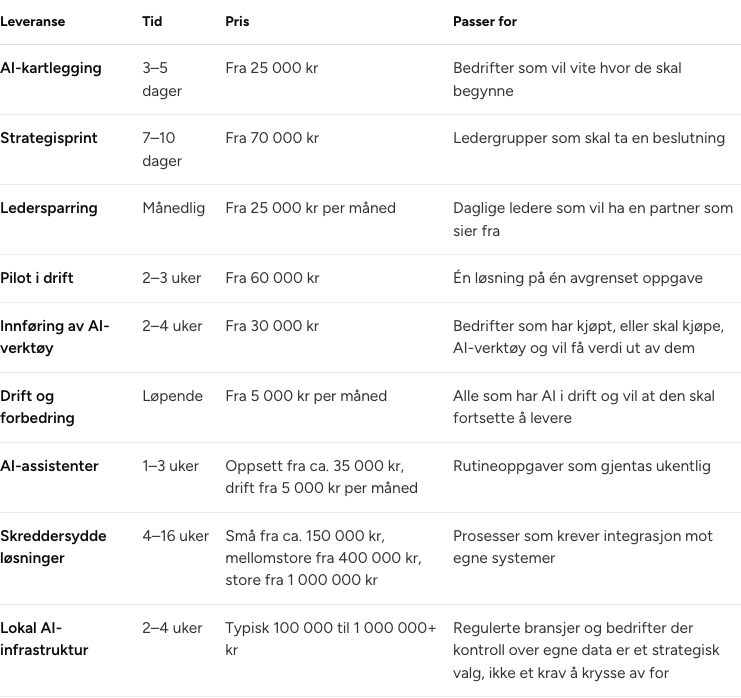
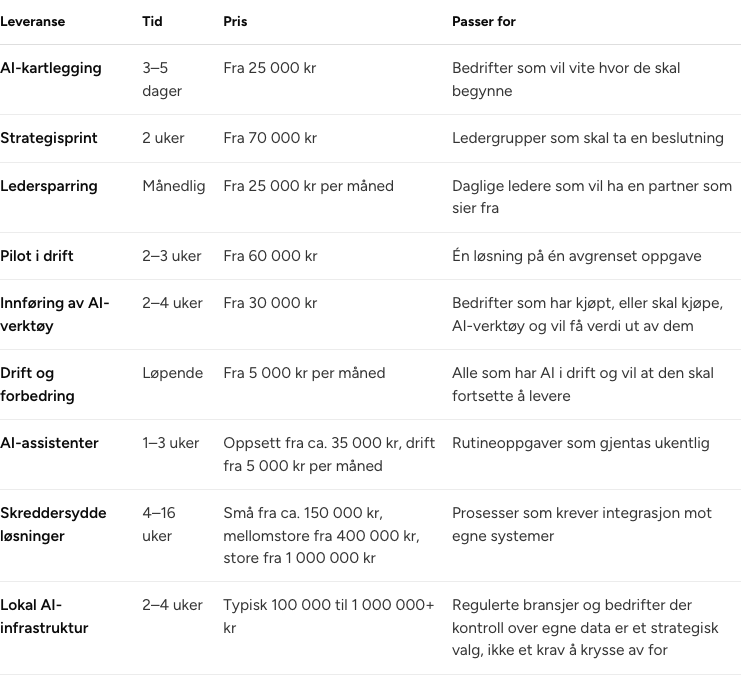
fix(priser): strategisprinten er fortsatt 2 uker
Thomas 6. november 2026: strategisprinten er 2 uker med 4 dager per uke,
så leveransen står som før («2 uker»). Prisen er fortsatt 70 000 kr.
Skjermbildene er tatt på nytt.

diff --git a/innsikt/ai-for-bedrifter/index.html b/innsikt/ai-for-bedrifter/index.html
@@ -76,7 +76,7 @@
   "datePublished": "2026-10-27",
   "dateModified": "2026-11-06",
   "articleSection": "Ta i bruk AI",
-  "wordCount": 665,
+  "wordCount": 663,
   "image": "https://nrth.no/innsikt/ai-for-bedrifter/og.png",
   "author": {
     "@type": "Person",
@@ -165,7 +165,7 @@
           <p>Start med å finne de tre til fem stedene i bedriften der AI faktisk endrer regnestykket. Det er sjelden der folk tror. Det er ikke kundeservice-chatboten, det er de ukentlige oppgavene som tar timer og krever lesing, sammenligning og skriving: fakturakontroll, tilbudsutkast, svar på standardhenvendelser, ukesrapporter, leverandøroppfølging.</p>
           <p>En god test: kan oppgaven beskrives i en setning, gjentas den minst ukentlig, og finnes det dokumenter den bygger på? Da er den en kandidat. Oppgaver som krever skjønn i hvert tilfelle, eller som ingen kan beskrive, er det ikke.</p>
           <h2 id="hva-koster-det">Hva koster det?</h2>
-          <p>Hos oss koster AI-kartlegging fra 25&nbsp;000&nbsp;kroner og tar tre til fem dager. En strategisprint på sju til ti dager koster fra 70&nbsp;000&nbsp;kroner. En pilot i drift tar to til tre uker og koster fra 60&nbsp;000&nbsp;kroner. AI-assistenter har oppsett fra ca. 35&nbsp;000&nbsp;kroner og drift fra 5&nbsp;000&nbsp;kroner per måned, og lokal AI-infrastruktur koster typisk 100&nbsp;000 til 1&nbsp;000&nbsp;000+ kroner. Alle priser er eksklusive mva. og står på sidene om <a href="/ai-vurdering">AI-vurdering</a>, <a href="/implementering">implementering</a>, <a href="/ai-tjenester">AI-tjenester</a> og <a href="/foredrag-og-kurs">foredrag og kurs</a>. I tillegg kommer forbruk på modeller, som for de fleste SMB-er ligger på noen hundre til noen tusen kroner i måneden per løsning.</p>
+          <p>Hos oss koster AI-kartlegging fra 25&nbsp;000&nbsp;kroner og tar tre til fem dager. En strategisprint på to uker koster fra 70&nbsp;000&nbsp;kroner. En pilot i drift tar to til tre uker og koster fra 60&nbsp;000&nbsp;kroner. AI-assistenter har oppsett fra ca. 35&nbsp;000&nbsp;kroner og drift fra 5&nbsp;000&nbsp;kroner per måned, og lokal AI-infrastruktur koster typisk 100&nbsp;000 til 1&nbsp;000&nbsp;000+ kroner. Alle priser er eksklusive mva. og står på sidene om <a href="/ai-vurdering">AI-vurdering</a>, <a href="/implementering">implementering</a>, <a href="/ai-tjenester">AI-tjenester</a> og <a href="/foredrag-og-kurs">foredrag og kurs</a>. I tillegg kommer forbruk på modeller, som for de fleste SMB-er ligger på noen hundre til noen tusen kroner i måneden per løsning.</p>
           <p>En dyktig medarbeider i Norge koster 1–1,5&nbsp;millioner kroner i året. Når AI støtter de ansatte og tar rutinearbeidet, kan teamet få kapasitet tilsvarende én til flere ekstra ansatte, og kvaliteten går opp. AI koster typisk 20–40&nbsp;% av det én ansatt koster.</p>
           <h2 id="hva-bor-du-la-vaere">Hva bør du la være?</h2>
           <ul>

diff --git a/en/ai-assessment/index.html b/en/ai-assessment/index.html
@@ -9,7 +9,7 @@
   setTimeout(function () { if (!window.nrthReveal) document.documentElement.classList.remove("js"); }, 3000);
 </script>
 <title>AI assessment and AI strategy for businesses · Nrth AI</title>
-<meta name="description" content="Find out where AI does the most for your business: a 3–5 day AI assessment, a 7–10 day strategy sprint and leadership advisory. From NOK 25,000." />
+<meta name="description" content="Find out where AI does the most for your business: a 3–5 day AI assessment, a 2-week strategy sprint and leadership advisory. From NOK 25,000." />
 <meta name="robots" content="index, follow, max-snippet:-1, max-image-preview:large, max-video-preview:-1" />
 <link rel="canonical" href="https://nrth.no/en/ai-assessment" />
 <link rel="alternate" hreflang="nb" href="https://nrth.no/ai-vurdering" />
@@ -18,7 +18,7 @@
 <meta property="og:type" content="website" />
 <meta property="og:site_name" content="Nrth AI" />
 <meta property="og:title" content="AI assessment and AI strategy for businesses · Nrth AI" />
-<meta property="og:description" content="Find out where AI does the most for your business: a 3–5 day AI assessment, a 7–10 day strategy sprint and leadership advisory. From NOK 25,000." />
+<meta property="og:description" content="Find out where AI does the most for your business: a 3–5 day AI assessment, a 2-week strategy sprint and leadership advisory. From NOK 25,000." />
 <meta property="og:url" content="https://nrth.no/en/ai-assessment" />
 <meta property="og:locale" content="en_GB" />
 <meta property="og:locale:alternate" content="nb_NO" />
@@ -199,7 +199,7 @@
             </ul>
           </div>
           <dl class="service-meta-group">
-            <div class="service-meta"><dt class="label">Delivery</dt><dd class="value">7–10 days</dd></div>
+            <div class="service-meta"><dt class="label">Delivery</dt><dd class="value">2 weeks</dd></div>
             <div class="service-meta"><dt class="label">Investment</dt><dd class="value">From NOK&nbsp;70,000</dd></div>
             <div class="service-meta"><dt class="label">Best fit</dt><dd class="value">Leadership teams about to make a decision on AI who want solid ground to stand on.</dd></div>
           </dl>

diff --git a/ai-vurdering/index.html b/ai-vurdering/index.html
@@ -9,7 +9,7 @@
   setTimeout(function () { if (!window.nrthReveal) document.documentElement.classList.remove("js"); }, 3000);
 </script>
 <title>AI-vurdering og AI-strategi for bedrifter · Nrth AI</title>
-<meta name="description" content="Finn ut hvor AI gir bedriften mest: AI-kartlegging på 3–5 dager, strategisprint på 7–10 dager og ledersparring. Fra 25 000 kr." />
+<meta name="description" content="Finn ut hvor AI gir bedriften mest: AI-kartlegging på 3–5 dager, strategisprint på 2 uker og ledersparring. Fra 25 000 kr." />
 <meta name="robots" content="index, follow, max-snippet:-1, max-image-preview:large, max-video-preview:-1" />
 <link rel="canonical" href="https://nrth.no/ai-vurdering" />
 <link rel="alternate" hreflang="nb" href="https://nrth.no/ai-vurdering" />
@@ -18,7 +18,7 @@
 <meta property="og:type" content="website" />
 <meta property="og:site_name" content="Nrth AI" />
 <meta property="og:title" content="AI-vurdering og AI-strategi for bedrifter · Nrth AI" />
-<meta property="og:description" content="Finn ut hvor AI gir bedriften mest: AI-kartlegging på 3–5 dager, strategisprint på 7–10 dager og ledersparring. Fra 25 000 kr." />
+<meta property="og:description" content="Finn ut hvor AI gir bedriften mest: AI-kartlegging på 3–5 dager, strategisprint på 2 uker og ledersparring. Fra 25 000 kr." />
 <meta property="og:url" content="https://nrth.no/ai-vurdering" />
 <meta property="og:locale" content="nb_NO" />
 <meta property="og:locale:alternate" content="en_GB" />
@@ -199,7 +199,7 @@
             </ul>
           </div>
           <dl class="service-meta-group">
-            <div class="service-meta"><dt class="label">Leveranse</dt><dd class="value">7–10 dager</dd></div>
+            <div class="service-meta"><dt class="label">Leveranse</dt><dd class="value">2 uker</dd></div>
             <div class="service-meta"><dt class="label">Investering</dt><dd class="value">Fra 70&nbsp;000&nbsp;kr</dd></div>
             <div class="service-meta"><dt class="label">Passer for</dt><dd class="value">Ledergrupper som skal ta en beslutning om AI og vil ha et solid grunnlag.</dd></div>
           </dl>

diff --git a/innsikt/hva-koster-et-ai-prosjekt/index.html b/innsikt/hva-koster-et-ai-prosjekt/index.html
@@ -164,7 +164,7 @@
               <thead><tr><th scope="col">Leveranse</th><th scope="col">Tid</th><th scope="col">Pris</th><th scope="col">Passer for</th></tr></thead>
               <tbody>
                 <tr><th scope="row">AI-kartlegging</th><td>3–5 dager</td><td>Fra 25&nbsp;000&nbsp;kr</td><td>Bedrifter som vil vite hvor de skal begynne</td></tr>
-                <tr><th scope="row">Strategisprint</th><td>7–10 dager</td><td>Fra 70&nbsp;000&nbsp;kr</td><td>Ledergrupper som skal ta en beslutning</td></tr>
+                <tr><th scope="row">Strategisprint</th><td>2 uker</td><td>Fra 70&nbsp;000&nbsp;kr</td><td>Ledergrupper som skal ta en beslutning</td></tr>
                 <tr><th scope="row">Ledersparring</th><td>Månedlig</td><td>Fra 25&nbsp;000&nbsp;kr per måned</td><td>Daglige ledere som vil ha en partner som sier fra</td></tr>
                 <tr><th scope="row">Pilot i drift</th><td>2–3 uker</td><td>Fra 60&nbsp;000&nbsp;kr</td><td>Én løsning på én avgrenset oppgave</td></tr>
                 <tr><th scope="row">Innføring av AI-verktøy</th><td>2–4 uker</td><td>Fra 30&nbsp;000&nbsp;kr</td><td>Bedrifter som har kjøpt, eller skal kjøpe, AI-verktøy og vil få verdi ut av dem</td></tr>

diff --git a/index.html b/index.html
@@ -193,7 +193,7 @@
           <p>Før dere bruker penger på verktøy, finner vi ut hvor AI faktisk øker salget eller sparer tid hos dere, og hva som bør gjøres først.</p>
           <ul class="door-list">
             <li><span class="arrow" aria-hidden="true">→</span> <span>AI-kartlegging</span> <span class="dur">3–5 dager</span></li>
-            <li><span class="arrow" aria-hidden="true">→</span> <span>Strategisprint</span> <span class="dur">7–10 dager</span></li>
+            <li><span class="arrow" aria-hidden="true">→</span> <span>Strategisprint</span> <span class="dur">2 uker</span></li>
             <li><span class="arrow" aria-hidden="true">→</span> <span>Ledersparring</span> <span class="dur">månedlig</span></li>
           </ul>
           <div class="card-foot">

diff --git a/en/index.html b/en/index.html
@@ -148,7 +148,7 @@
           <p>Before you spend money on tools, we find where AI actually increases sales or saves time in your business, and what to do first.</p>
           <ul class="door-list">
             <li><span class="arrow" aria-hidden="true">→</span> <span>AI assessment</span> <span class="dur">3–5 days</span></li>
-            <li><span class="arrow" aria-hidden="true">→</span> <span>Strategy sprint</span> <span class="dur">7–10 days</span></li>
+            <li><span class="arrow" aria-hidden="true">→</span> <span>Strategy sprint</span> <span class="dur">2 weeks</span></li>
             <li><span class="arrow" aria-hidden="true">→</span> <span>Leadership advisory</span> <span class="dur">monthly</span></li>
           </ul>
           <div class="card-foot">

diff --git a/docs/innsikt/ai-for-bedrifter.md b/docs/innsikt/ai-for-bedrifter.md
@@ -29,7 +29,7 @@ En god test: kan oppgaven beskrives i en setning, gjentas den minst ukentlig, og
 
 ## Hva koster det?
 
-Hos oss koster AI-kartlegging fra 25 000 kroner og tar tre til fem dager. En strategisprint på sju til ti dager koster fra 70 000 kroner. En pilot i drift tar to til tre uker og koster fra 60 000 kroner. AI-assistenter har oppsett fra ca. 35 000 kroner og drift fra 5 000 kroner per måned, og lokal AI-infrastruktur koster typisk 100 000 til 1 000 000+ kroner. Alle priser er eksklusive mva. og står på sidene om [AI-vurdering](/ai-vurdering), [implementering](/implementering), [AI-tjenester](/ai-tjenester) og [foredrag og kurs](/foredrag-og-kurs). I tillegg kommer forbruk på modeller, som for de fleste SMB-er ligger på noen hundre til noen tusen kroner i måneden per løsning.
+Hos oss koster AI-kartlegging fra 25 000 kroner og tar tre til fem dager. En strategisprint på to uker koster fra 70 000 kroner. En pilot i drift tar to til tre uker og koster fra 60 000 kroner. AI-assistenter har oppsett fra ca. 35 000 kroner og drift fra 5 000 kroner per måned, og lokal AI-infrastruktur koster typisk 100 000 til 1 000 000+ kroner. Alle priser er eksklusive mva. og står på sidene om [AI-vurdering](/ai-vurdering), [implementering](/implementering), [AI-tjenester](/ai-tjenester) og [foredrag og kurs](/foredrag-og-kurs). I tillegg kommer forbruk på modeller, som for de fleste SMB-er ligger på noen hundre til noen tusen kroner i måneden per løsning.
 
 En dyktig medarbeider i Norge koster 1–1,5 millioner kroner i året. Når AI støtter de ansatte og tar rutinearbeidet, kan teamet få kapasitet tilsvarende én til flere ekstra ansatte, og kvaliteten går opp. AI koster typisk 20–40 % av det én ansatt koster.
 

diff --git a/docs/revisjon-2026-10/04-tekst-engelsk.md b/docs/revisjon-2026-10/04-tekst-engelsk.md
@@ -70,7 +70,7 @@ AI assessment ✦ Implementation ✦ AI services ✦ More sales ✦ Less manual 
 **Card 1** · 01 · AI assessment
 - Title: Find out where AI does the most for you.
 - Text: Before you spend money on tools, we find where AI actually increases sales or saves time in your business, and what to do first.
-- List: AI assessment · 3–5 days / Strategy sprint · 7–10 days / Leadership advisory · monthly
+- List: AI assessment · 3–5 days / Strategy sprint · 2 weeks / Leadership advisory · monthly
 - Price: From NOK 25,000
 - Link: Read more → `/en/ai-assessment`
 
@@ -133,7 +133,7 @@ Added and approved by Thomas on 27 October 2026. Made by `scripts/innsikt.mjs` f
 ## AI assessment `/en/ai-assessment`
 
 **Title:** AI assessment and AI strategy for businesses · Nrth AI
-**Description:** Find out where AI does the most for your business: a 3–5 day AI assessment, a 7–10 day strategy sprint and leadership advisory. From NOK 25,000.
+**Description:** Find out where AI does the most for your business: a 3–5 day AI assessment, a 2-week strategy sprint and leadership advisory. From NOK 25,000.
 
 ### Page hero
 - Kicker: ✦ AI assessment
@@ -151,7 +151,7 @@ Added and approved by Thomas on 27 October 2026. Made by `scripts/innsikt.mjs` f
 **02 · Strategy sprint** (`id="sprint"`)
 - Text: Two intensive weeks that end in a plan you can carry out.
 - Included: Implementation plan / A model of gains and costs / Prioritised scope for the first pilot / A recommendation on what to buy and what to build
-- Delivery: 7–10 days
+- Delivery: 2 weeks
 - Investment: From NOK 70,000
 - Best fit: Leadership teams about to make a decision on AI who want solid ground to stand on.
 

diff --git a/docs/revisjon-2026-10/03-tekst-norsk.md b/docs/revisjon-2026-10/03-tekst-norsk.md
@@ -77,7 +77,7 @@ AI-vurdering ✦ Implementering ✦ AI-tjenester ✦ Mer salg ✦ Mindre manuelt
 - Topp: 01 · AI-vurdering
 - Tittel: Finn ut hvor AI gir dere mest.
 - Tekst: Før dere bruker penger på verktøy, finner vi ut hvor AI faktisk øker salget eller sparer tid hos dere, og hva som bør gjøres først.
-- Liste: AI-kartlegging · 3–5 dager / Strategisprint · 7–10 dager / Ledersparring · månedlig
+- Liste: AI-kartlegging · 3–5 dager / Strategisprint · 2 uker / Ledersparring · månedlig
 - Pris: Fra 25 000 kr
 - Lenke: Les mer → `/ai-vurdering`
 
@@ -143,7 +143,7 @@ Lagt til og godkjent av Thomas 27. oktober 2026. Kortene lages av `scripts/innsi
 ## AI-vurdering `/ai-vurdering`
 
 **Title:** AI-vurdering og AI-strategi for bedrifter · Nrth AI
-**Description:** Finn ut hvor AI gir bedriften mest: AI-kartlegging på 3–5 dager, strategisprint på 7–10 dager og ledersparring. Fra 25 000 kr.
+**Description:** Finn ut hvor AI gir bedriften mest: AI-kartlegging på 3–5 dager, strategisprint på 2 uker og ledersparring. Fra 25 000 kr.
 
 ### Sidehero (`page-hero`)
 - Kicker: ✦ AI-vurdering
@@ -171,7 +171,7 @@ Lagt til og godkjent av Thomas 27. oktober 2026. Kortene lages av `scripts/innsi
   - Regnestykke for gevinst og kostnad
   - Prioritert omfang for første pilot
   - Anbefaling om hva som bør kjøpes, og hva som bør bygges
-- Leveranse: 7–10 dager
+- Leveranse: 2 uker
 - Investering: Fra 70 000 kr
 - Passer for: Ledergrupper som skal ta en beslutning om AI og vil ha et solid grunnlag.
 

diff --git a/docs/revisjon-2026-10/07-seo-og-agentlag.md b/docs/revisjon-2026-10/07-seo-og-agentlag.md
@@ -90,7 +90,7 @@ Sist oppdatert: 21. oktober 2026
 
 ## Hva vi gjør
 
-- **AI-vurdering** — AI-kartlegging (3–5 dager, fra 25 000 kr), strategisprint (7–10 dager, fra 70 000 kr), ledersparring (fra 25 000 kr per måned). https://nrth.no/ai-vurdering
+- **AI-vurdering** — AI-kartlegging (3–5 dager, fra 25 000 kr), strategisprint (2 uker, fra 70 000 kr), ledersparring (fra 25 000 kr per måned). https://nrth.no/ai-vurdering
 - **Implementering** — pilot i drift (2–3 uker, fra 60 000 kr), innføring av AI-verktøy (2–4 uker, fra 30 000 kr), drift og forbedring (fra 5 000 kr per måned). https://nrth.no/implementering
 - **AI-tjenester** — AI-assistenter (1–3 uker, oppsett fra ca. 35 000 kr, drift fra 5 000 kr per måned), skreddersydde løsninger (4–16 uker, fra ca. 150 000 kr), lokal AI-infrastruktur på egen maskinvare (2–4 uker, typisk 100 000–1 000 000+ kr). https://nrth.no/ai-tjenester
 - **Foredrag og kurs** — for ledergrupper, ansatte og konferanser. Foredrag fra 20 000 kr, bedriftskurs (halv dag) fra 30 000 kr, workshop for ledergrupper (hel dag) fra 45 000 kr. https://nrth.no/foredrag-og-kurs

diff --git a/docs/innsikt/_endringer-fra-utkastet.md b/docs/innsikt/_endringer-fra-utkastet.md
@@ -158,6 +158,6 @@ Hver endring fra utkastene i strategidokumentet (fanen «Artikler nrth.no», 6. 
 Thomas satte nye priser. Artiklene følger tjenestesidene.
 
 - **Pris.** AI-kartlegging fra 35 000 kr → fra 25 000 kr i /innsikt/ai-for-bedrifter og /innsikt/hva-koster-et-ai-prosjekt (tabell og beskrivelse).
-- **Pris og tid.** Strategisprint på to uker fra 75 000 kr → på 7–10 dager fra 70 000 kr i de samme to artiklene.
+- **Pris.** Strategisprint fra 75 000 kr → fra 70 000 kr i de samme to artiklene. Varigheten er fortsatt to uker.
 - **Pris.** Oppsett av AI-assistenter fra ca. 50 000 kr → fra ca. 35 000 kr i /innsikt/ai-assistenter, /innsikt/ai-for-bedrifter og /innsikt/hva-koster-et-ai-prosjekt.
 - Datoen «oppdatert» er satt til 6. november 2026 i de tre artiklene.

diff --git a/docs/innsikt/hva-koster-et-ai-prosjekt.md b/docs/innsikt/hva-koster-et-ai-prosjekt.md
@@ -20,7 +20,7 @@ Et AI-prosjekt i en norsk småbedrift koster typisk 100 000 til 400 000 kroner d
 | Leveranse | Tid | Pris | Passer for |
 |---|---|---|---|
 | AI-kartlegging | 3–5 dager | Fra 25 000 kr | Bedrifter som vil vite hvor de skal begynne |
-| Strategisprint | 7–10 dager | Fra 70 000 kr | Ledergrupper som skal ta en beslutning |
+| Strategisprint | 2 uker | Fra 70 000 kr | Ledergrupper som skal ta en beslutning |
 | Ledersparring | Månedlig | Fra 25 000 kr per måned | Daglige ledere som vil ha en partner som sier fra |
 | Pilot i drift | 2–3 uker | Fra 60 000 kr | Én løsning på én avgrenset oppgave |
 | Innføring av AI-verktøy | 2–4 uker | Fra 30 000 kr | Bedrifter som har kjøpt, eller skal kjøpe, AI-verktøy og vil få verdi ut av dem |
